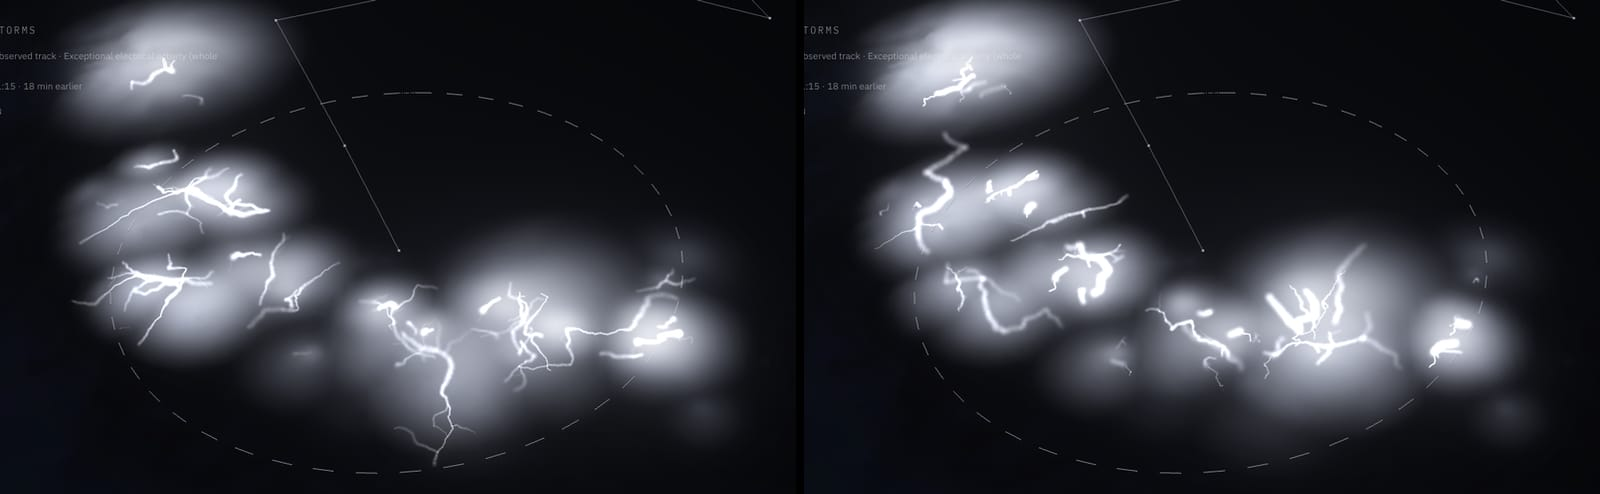
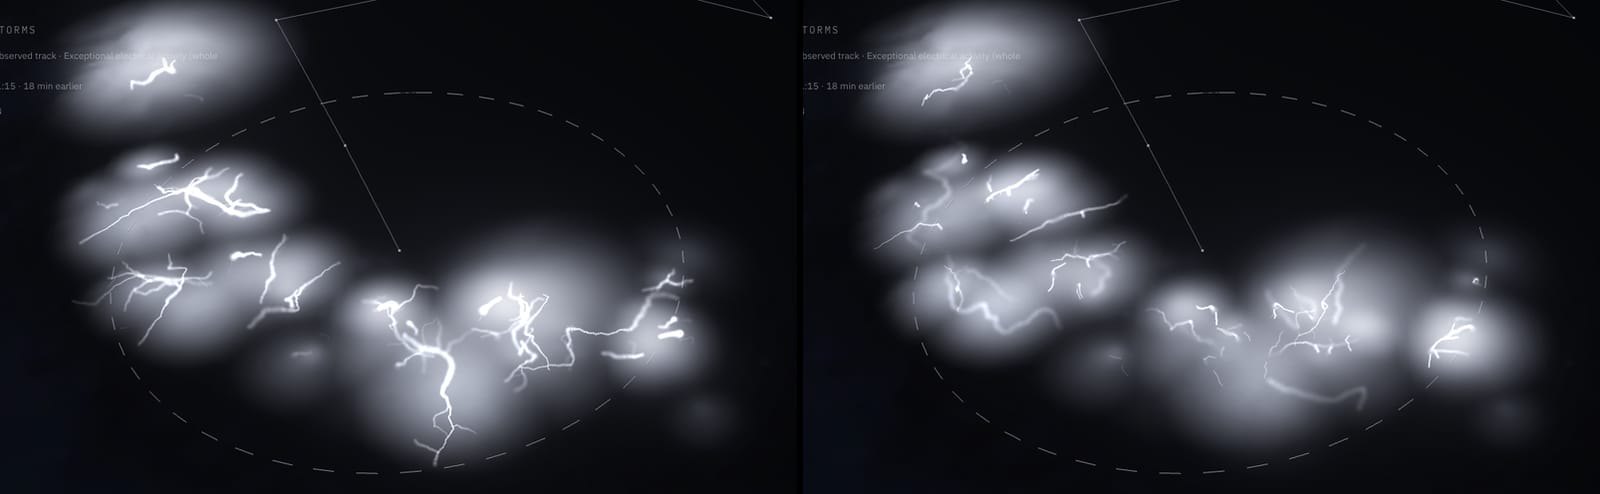
docs: name the veil overlap share and refresh the channel geometry captures

diff --git a/docs/immersive-view.md b/docs/immersive-view.md
@@ -355,7 +355,7 @@ the south pole).
 | Channel path, in-cloud: trunks climbing 2 to 4 km at 15 to 40°, fans within `min(2.2 r, 8 × 10^4 m/s × 0.8 × flicker)` (filament 20 %, branching 30 %, network 50 %); crawlers 1.76 to 2.2 `r` both ways, in segments of at least 1.5 km (`deepMinKm`, about the width the cloud spreads them to, so their overlapping ends do not add up to a saturated tube); cloud-to-air leaders out of the cloud over their outer 30 to 60 %, 1 to 3 km beyond the fan or up to 1 km over the top | Procedural, seeded, within the footprint | `skeleton.ts`, `SKELETON`, `KIND` |
 | Flash kinds: seven procedural looks, cloud-to-ground 30 % of seeds (negative multi-stroke 19 %, single-stroke 7 %, positive 3 %, bolt from the blue 1 %; observed band 15 to 40 %), cloud-to-air 3 %, crawlers for flashes observed ≥ 600 ms or ≥ 1,500 km², trunk-and-fan for the rest; leaders at 1 × 10^5 m/s (cloud-to-ground), 2 × 10^5 (in-cloud trunk), 1.5 × 10^5 (bolt from the blue), fans 8 × 10^4, crawlers 1 × 10^5, pace 0.75 to 1.35 per flash; leader time clamped to 50 to 150 ms (bolt from the blue 150 to 250 ms over its whole path, in-cloud trunk 10 to 20 ms), fans within 80 % of the flicker | Procedural, not a classification (ADR 0033); until #402 the cloud-to-ground kinds share the ground timing and the in-cloud kinds the in-cloud one | `flashKind`, `KIND`, `leaderSeconds`, `spreadSeconds` |
 | Channel heights (cloud assumed from 7 to 11.5 km; fans 8.5 to 11.5 km, trunks from 6-8 to 9-11 km, crawlers 6 to 8 km, cloud-to-ground channels from 6-11 km to the ground, cloud-to-air leaders up to 12.5 km) | Assumed; cloud-to-ground heights exaggerated 1.5× about the ground (`cgHeightScale`, ADR 0033), their stem kept under 11 km (`maxOriginKm`), so negative channels are drawn from 9 to 11 km: at 1.0× a drop is a 10 to 30 px stub at the oblique 45° pose; in-cloud kinds 1.0×; where the clouds are in relief the part above 7 km is compressed under the drawn top (to at least 30 %, ADR 0028, 0031) while a drop under it keeps its height, all lowered only under a top below 8.85 km | `SKELETON`, `reliefLift`, `ribbon.glsl.ts` |
-| Channel light through the cloud: a channel under the cloud keeps at least 30 % of its light through any cloud; in-cloud trunks are a crisp trace (at most 2 core widths, at least 30 %, with a halo 8 core widths wide); fans, crawlers and cloud-to-ground stems, whatever their height, keep the depth veil | Styled (physics: 0 %, from orbit a channel shows only in clear air) | `VEIL.trace`, `clearAirLight`, `cloudVeil` |
+| Channel light through the cloud: a channel under the cloud keeps at least 30 % of its light through any cloud; in-cloud trunks are a crisp trace (at most 2 core widths, at least 30 %, with a halo 8 core widths wide); fans, crawlers and cloud-to-ground stems, whatever their height, keep the depth veil, a segment shorter on screen than its spread width keeping only its share of it (`max(length, core width) / spread width`, so overlapping ends do not add up to a saturated tube) | Styled (physics: 0 %, from orbit a channel shows only in clear air) | `VEIL.trace`, `clearAirLight`, `cloudVeil`, `veilOverlap` |
 | Cloud top 12 km, cloud shell 10 km | Assumed, for the flat layer seen from afar and where no height is published | `CLOUD_TOP_KM`, `CLOUD_SHELL_KM` |
 | Cloud opacity | Observed IR, converted (ADR 0007), with visible detail by day (ADR 0023); about 1 km, 2 km at night outside Europe and Africa, hourly | Composite frames and detail tiles |
 | Cloud-top height | Observed IR matched to the GFS temperature profile (ADR 0028); 2 km, about 1 km median difference with GOES ACHA on opaque tops, thin cirrus placed too low | Height tiles, `volumeField` |

diff --git a/docs/flash-profile.md b/docs/flash-profile.md
@@ -179,7 +179,9 @@ and stage, not from its height alone:
 - *In the cloud* (fans, crawlers, a cloud-to-ground stem whatever its height, the part of a drop above
   the base): light scatters around the channel. It spreads over 0.5 km just under the 11.5 km top to
   4 km at the base, times the opacity, keeps the same light over that width and loses up to half of it,
-  with no halo.
+  with no halo. A segment shorter on screen than that width overlaps its neighbours over it, so it keeps
+  only its share, `max(length, core width) / spread width` (`veilOverlap`, styled): without it the
+  overlapping ends of a path deep in the cloud add up to a saturated white tube.
   Crawlers, along the base, are the most veiled.
 - *A trace in the cloud* (in-cloud trunks): the channel spreads at most to twice its core width and
   keeps at least 30 % of its light, with a halo, so a trunk reads as a crisp, dim stroke inside the
